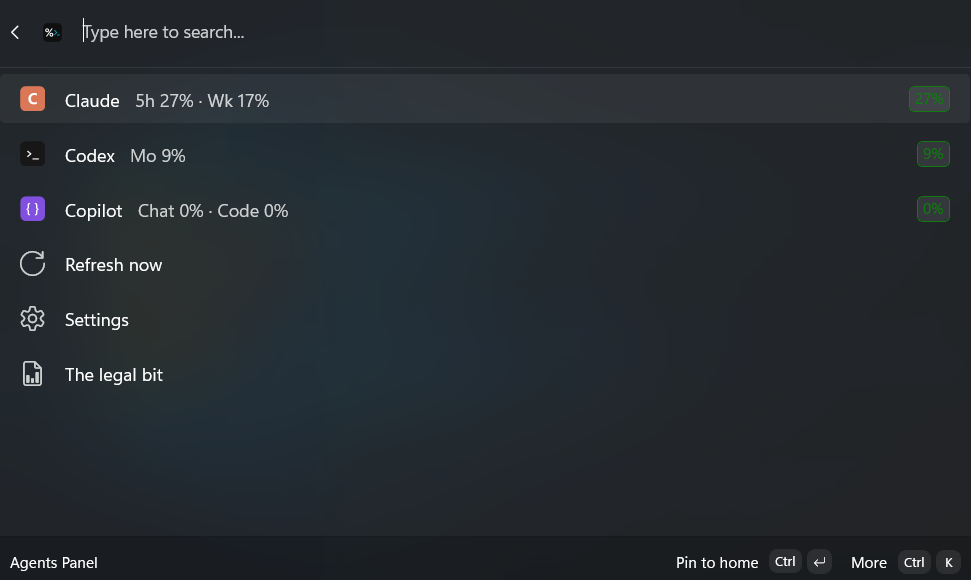
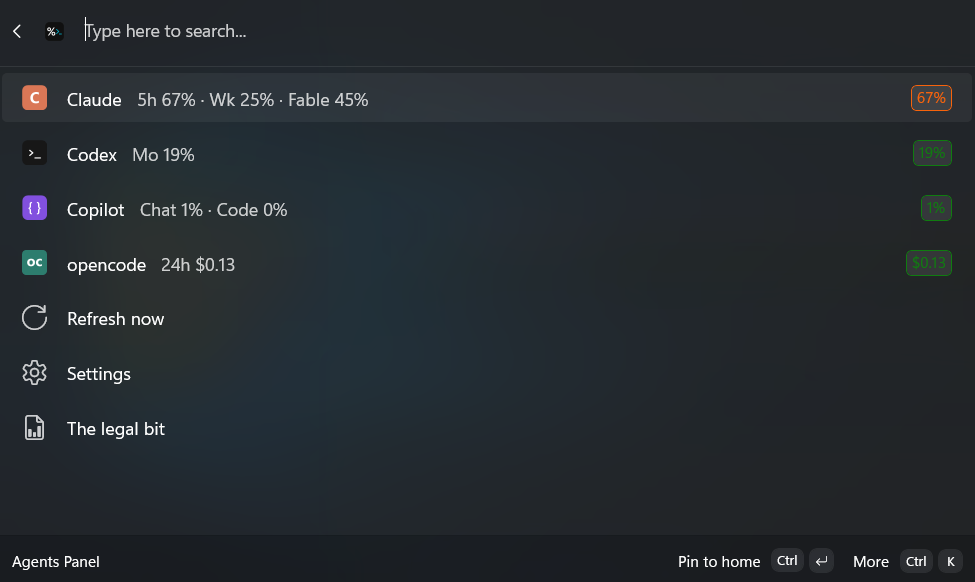
prep 1.1.0.0

diff --git a/notes/store-readiness.md b/notes/store-readiness.md
@@ -113,9 +113,10 @@ manifest description written, minimal capabilities, GitHub remote configured.
   `90ff65ac-91f0-4e40-b50c-4dfa6b58c511`).
 - [x] **E20 [agent] `notes/releasing.md`.** Skeleton created alongside this checklist.
 - [x] **E21 [user] Screenshots → `listing/`.** (done 2026-08-14) Framed-on-gradient shots in
-  `listing/`: `screenshot_panel_hub` (hero), `screenshot_{claude,codex,copilot}_hub` (provider
-  pages, 16:9 Store-ready), `screenshot_bands` (1:1, band management), `screenshot_dock` (3:1
-  strip). `base_screenshot_*` are the raw captures. Note for F22: Store uploads may need the 1:1 /
+  `listing/`: `screenshot_panel_hub` (hero; re-captured 2026-08-15 with the opencode row),
+  `screenshot_{claude,codex,copilot,opencode}_hub` (provider pages, 16:9 Store-ready; opencode
+  added 2026-08-15 for 1.1.0.0), `screenshot_bands` (1:1, band management), `screenshot_dock`
+  (3:1 strip). `base_screenshot_*` are the raw captures. Note for F22: Store uploads may need the 1:1 /
   3:1 shots downscaled or padded (the 7200px dock strip exceeds the 3840×2160 ceiling); hub shots
   upload as-is.
 

diff --git a/notes/releasing.md b/notes/releasing.md
@@ -2,7 +2,7 @@
 
 Skeleton — modeled on MarketExtension's `notes/releasing.md`; fill in as the release
 infrastructure lands (see `notes/store-readiness.md` for the full checklist). Current version:
-**1.0.0.0**.
+**1.1.0.0**.
 
 ## Version bump — all sites together, one dedicated commit
 

diff --git a/README.md b/README.md
@@ -56,7 +56,7 @@ One top-level **Agents Panel** command opens the hub.
 
 ### opencode
 
-TODO !
+<img src="listing/screenshot_opencode_hub.png" width="500"/>
 
 ### Dock integration
 
